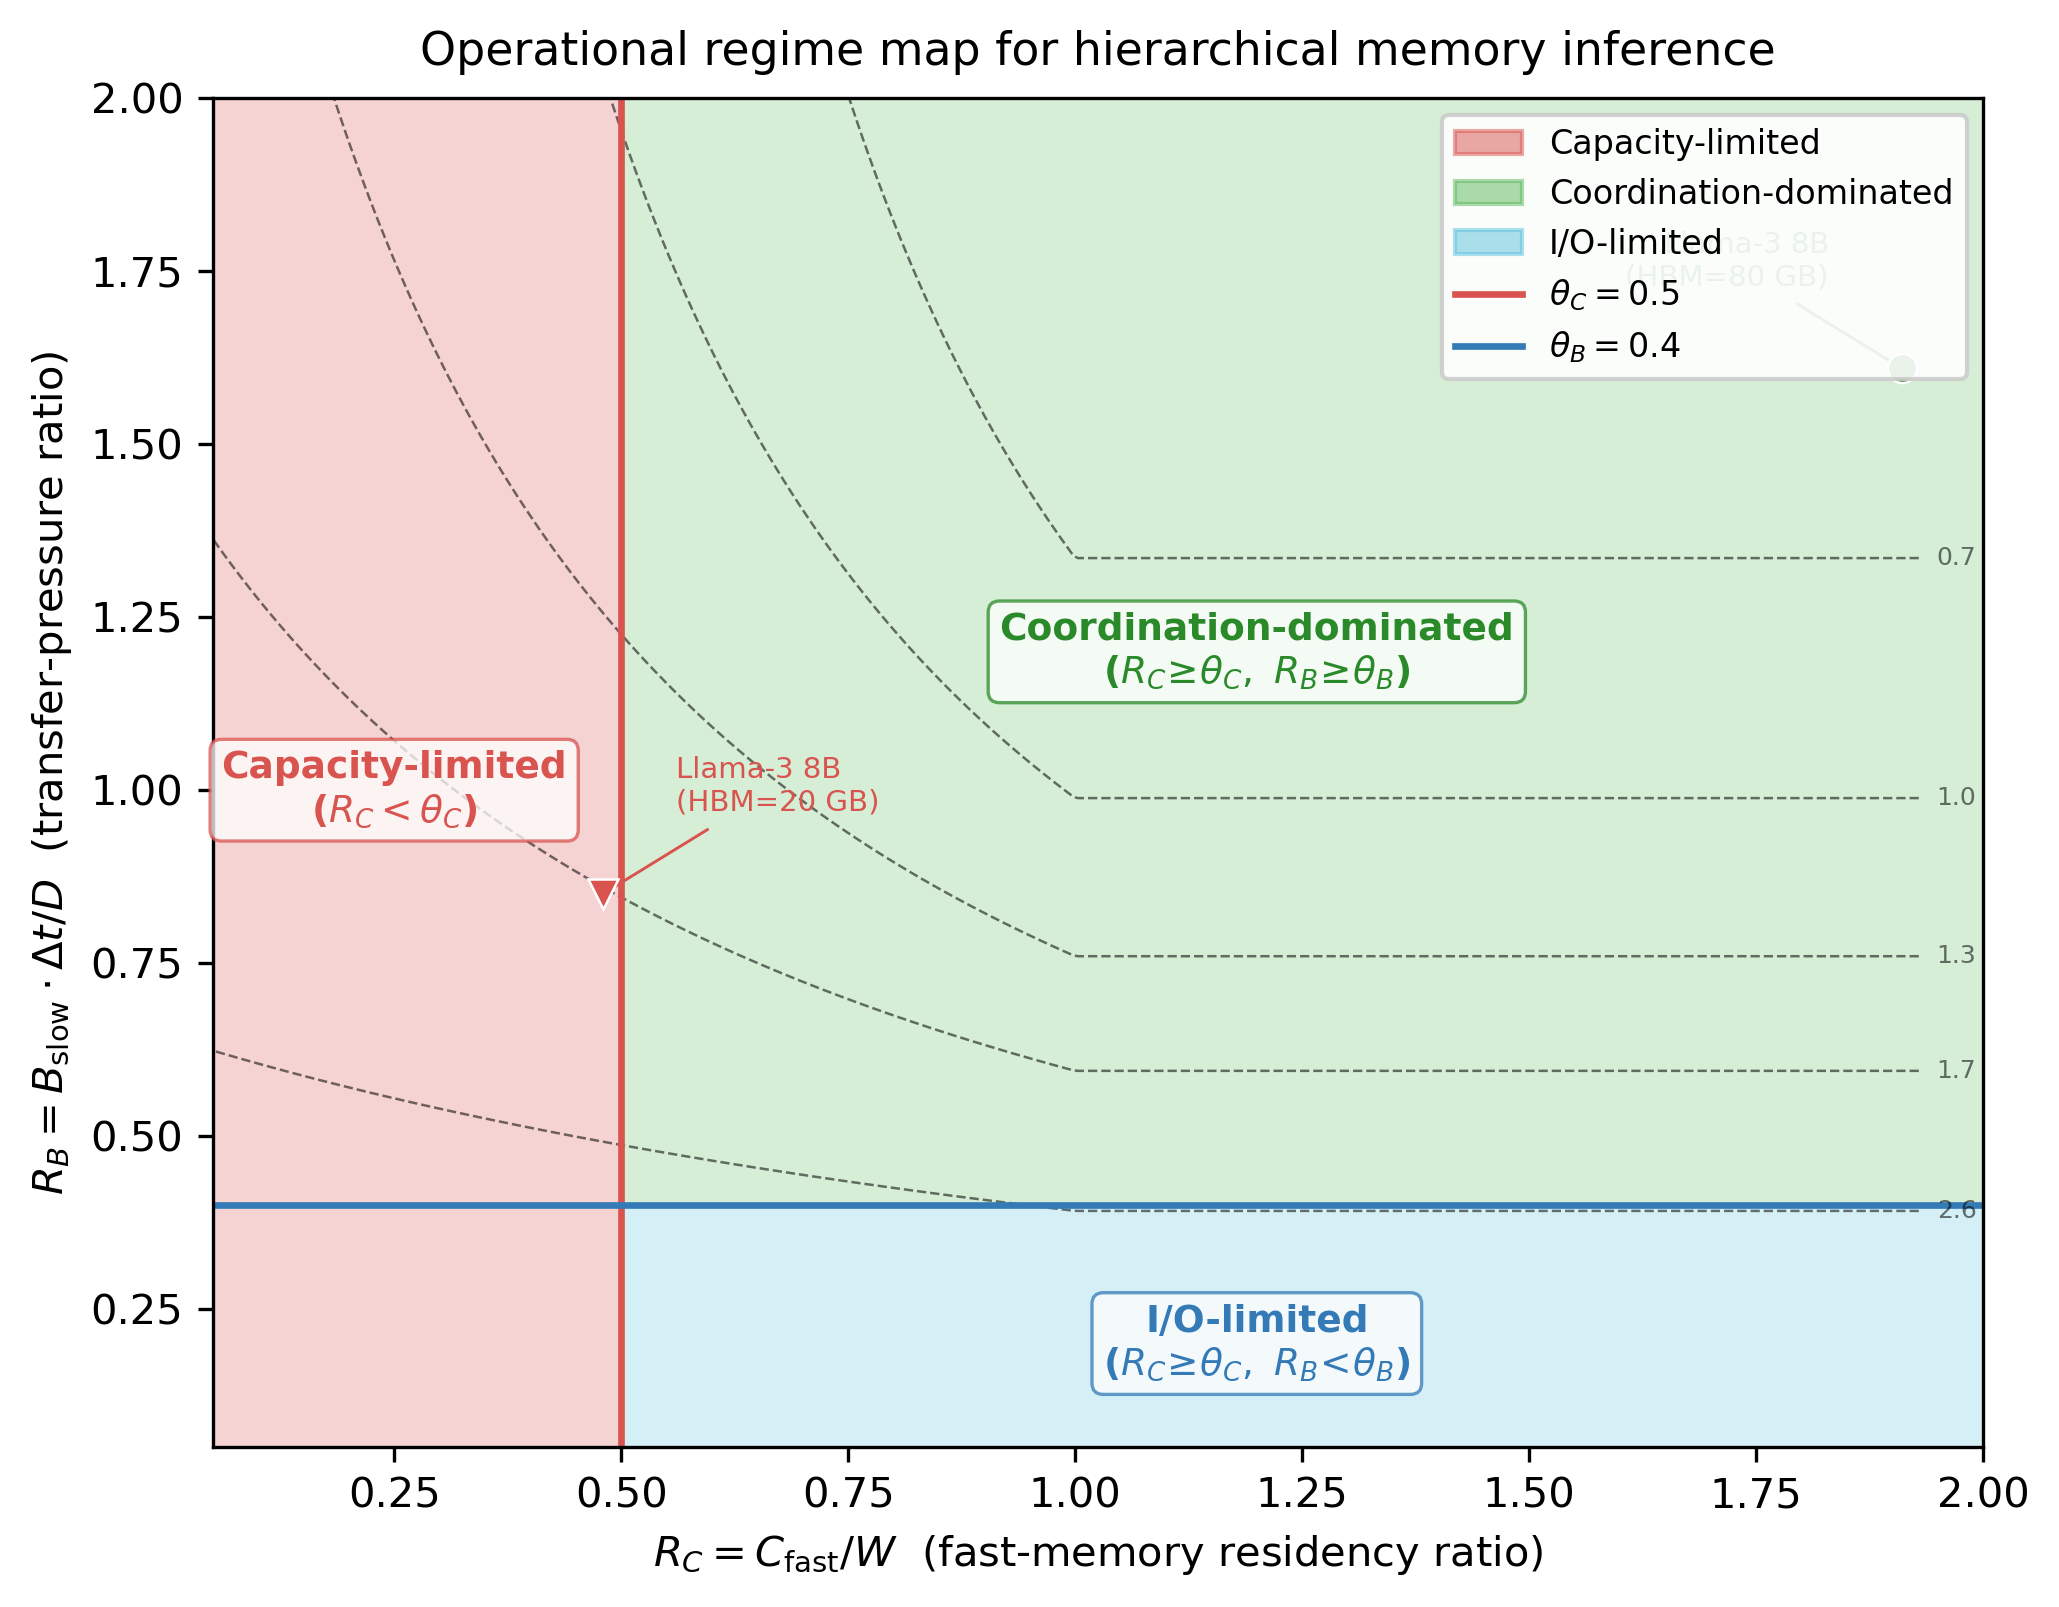
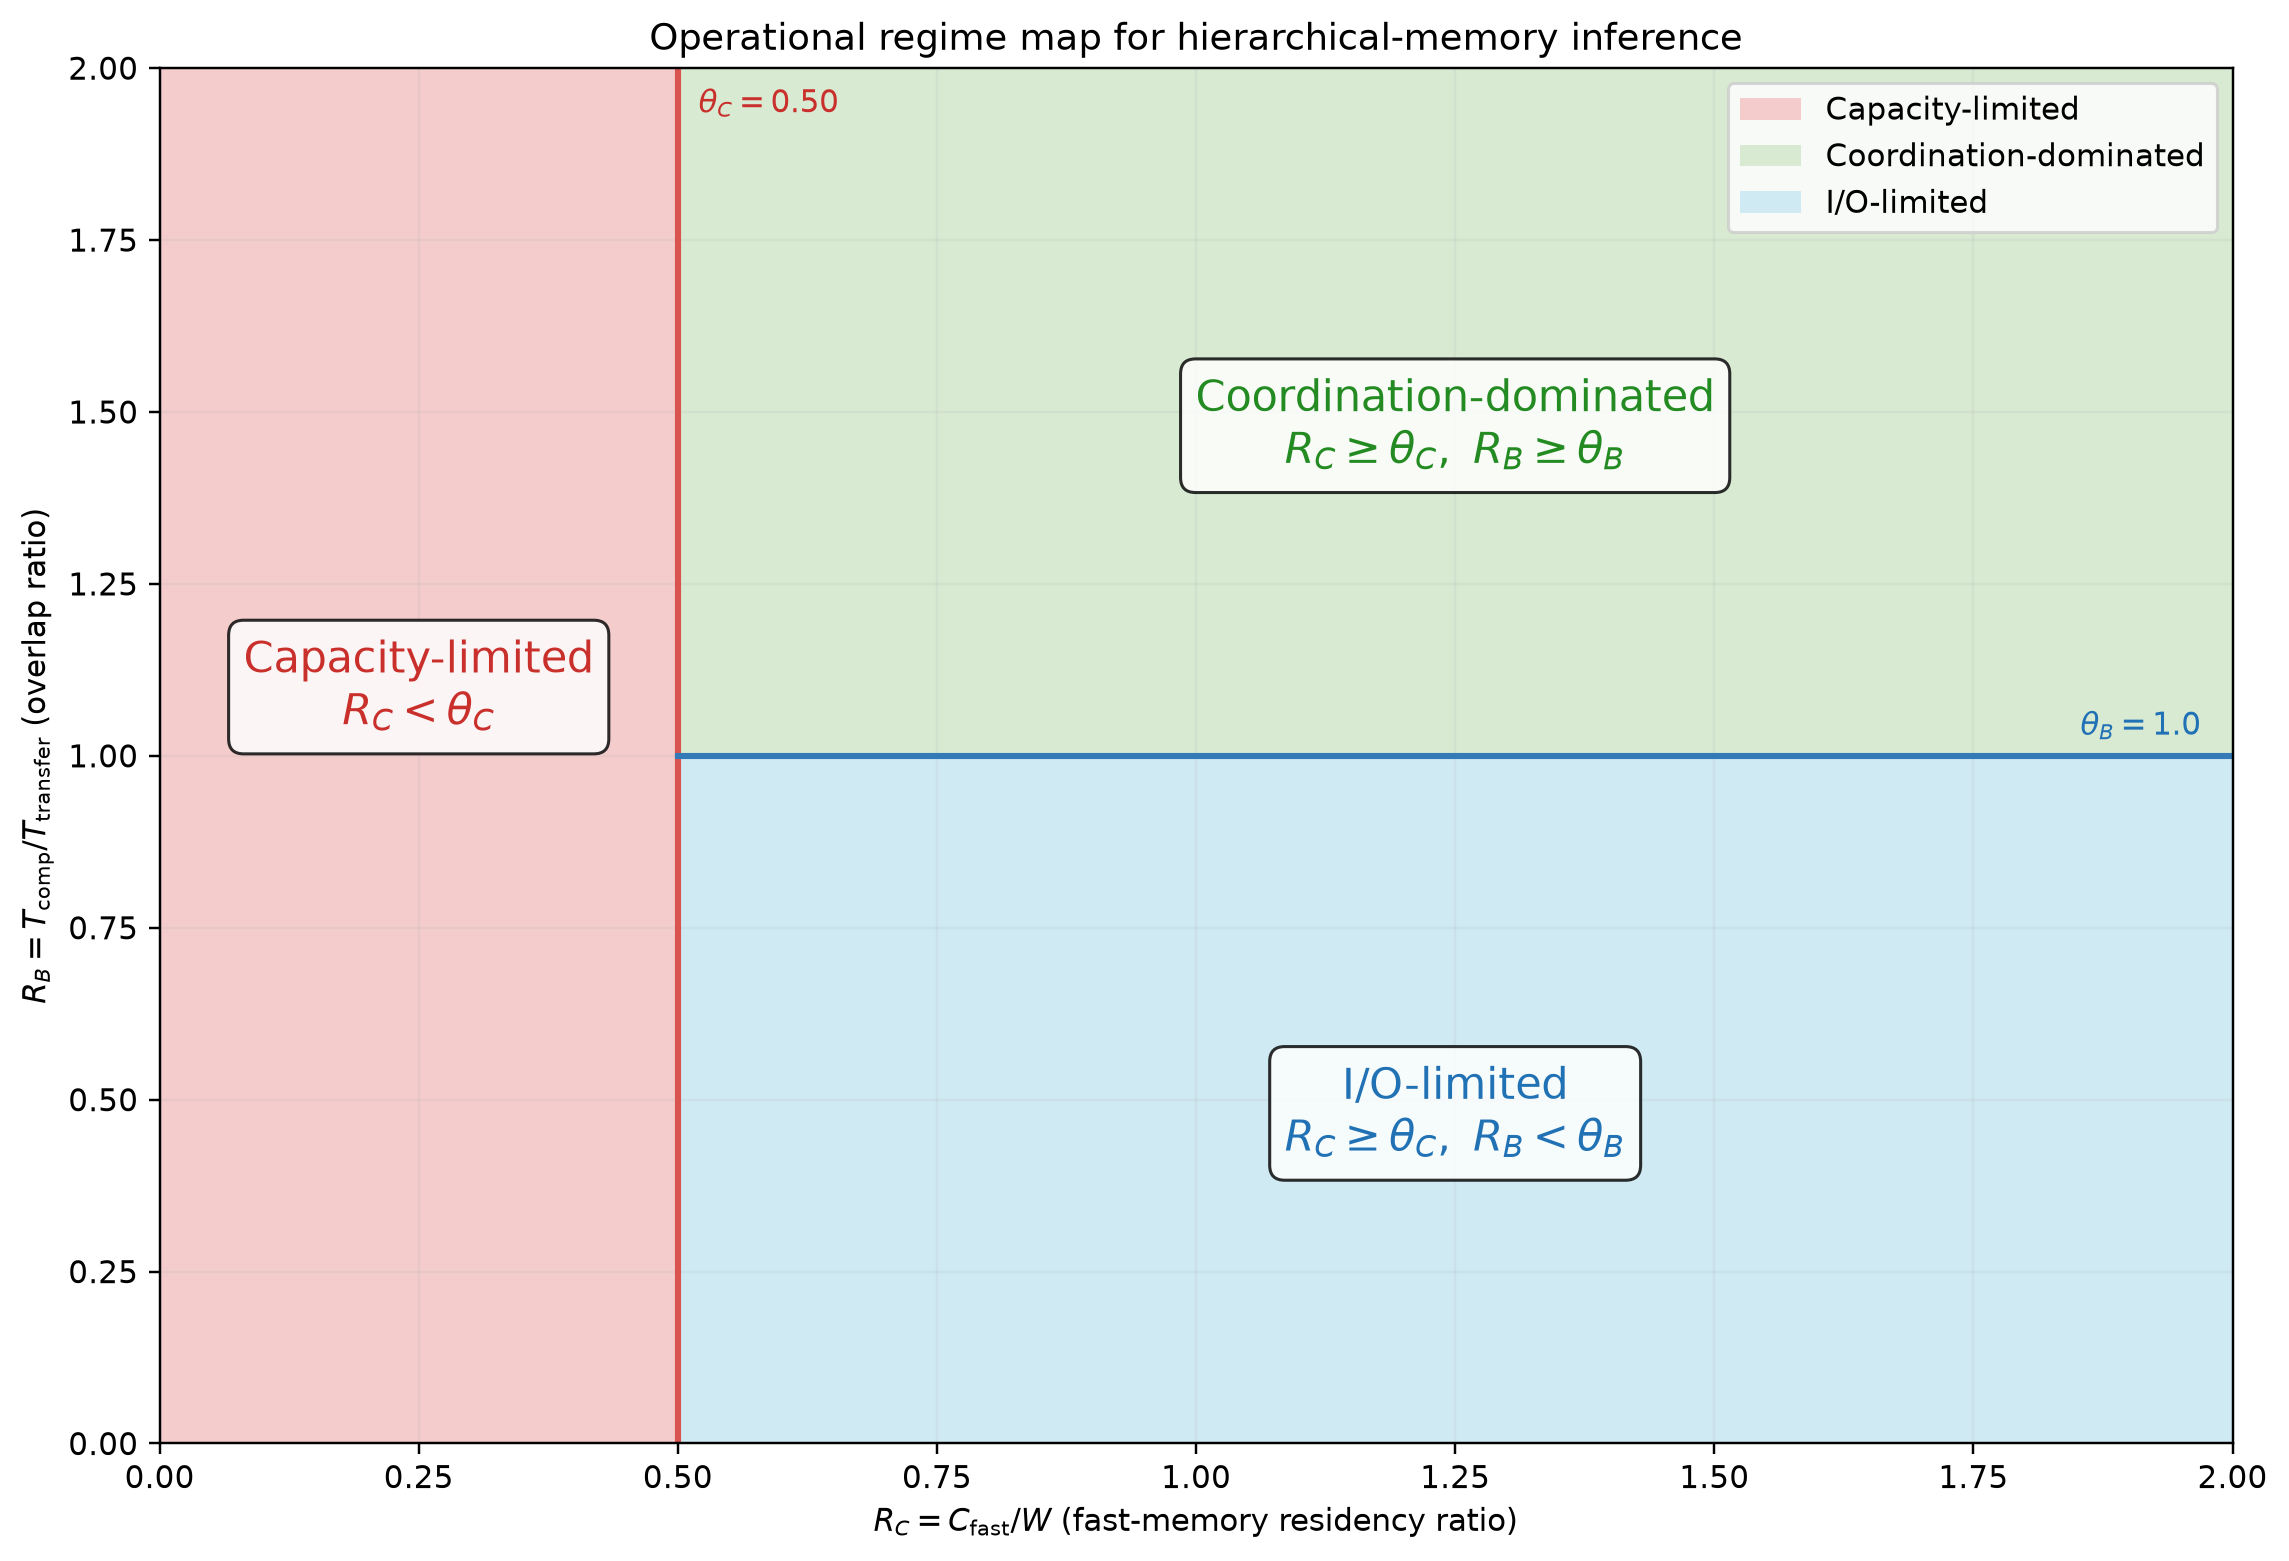
Add analytical regime-map generator, update Figure 2 script and README
### Motivation
- Provide a reproducible, CPU-only way to regenerate the analytical regime-map schematic used in the manuscript directly from `orion.config` so the asset is traceable and editable.
- Clarify the `R_B` axis label in the Figure 2 plotting script to match the analytical definition used for the sweep panel.

### Description
- Add `code/experiments/reproduce_regime_map.py`, a small matplotlib-based script that reads `THETA_B` and `THETA_C` from `orion.config` and writes `paper/figures/orion_regime_map.png` (default) or a user-specified output via `--output`.
- Add the generated asset `paper/figures/orion_regime_map.png` to the repository so the manuscript has an included schematic version of the regime map.
- Update `code/README.md` to mention the new script and show how to regenerate the analytical regime-map asset from `orion.config`.
- Fix the axis label in `code/experiments/reproduce_figure2.py` panel (c) from `R_B = B_slow·Δt / D` to `R_B = T_comp / T_transfer` to reflect the intended overlap-ratio definition.

### Testing
- Ran the new generator with `python experiments/reproduce_regime_map.py --output results/orion_regime_map.png` to smoke-test plotting and file output; the script completed and produced a PNG file successfully.
- Executed `python experiments/reproduce_figure2.py --save-pdf figure2_reproduced.pdf` to verify the modified axis label renders and the figure pipeline runs; the script completed and produced the PDF successfully.

diff --git a/code/experiments/reproduce_regime_map.py b/code/experiments/reproduce_regime_map.py
@@ -1,0 +1,75 @@
+#!/usr/bin/env python3
+"""Generate the analytical ORION regime map used by the manuscript.
+
+The plot is a schematic of the definitions in ``orion.config``; it does not
+contain, or imply, empirical accelerator measurements.
+"""
+from __future__ import annotations
+
+import argparse
+import sys
+from pathlib import Path
+
+sys.path.insert(0, str(Path(__file__).resolve().parent.parent))
+
+from orion.config import THETA_B, THETA_C
+
+
+def plot(output: Path) -> None:
+    import matplotlib
+
+    matplotlib.use("Agg")
+    import matplotlib.pyplot as plt
+    from matplotlib.patches import Patch
+
+    fig, ax = plt.subplots(figsize=(10.5, 7.2))
+    x_max, y_max = 2.0, 2.0
+    colours = {"capacity": "#f4cccc", "coordination": "#d9ead3", "io": "#cfeaf3"}
+
+    # Capacity is the first decision in the classifier. The I/O boundary is
+    # therefore displayed only on the R_C >= theta_C half-plane.
+    ax.axvspan(0, THETA_C, color=colours["capacity"], zorder=0)
+    ax.fill_between([THETA_C, x_max], 0, THETA_B, color=colours["io"], zorder=0)
+    ax.fill_between([THETA_C, x_max], THETA_B, y_max,
+                    color=colours["coordination"], zorder=0)
+    ax.axvline(THETA_C, color="#d9534f", linewidth=2)
+    ax.plot([THETA_C, x_max], [THETA_B, THETA_B], color="#337ab7", linewidth=2)
+
+    box = dict(boxstyle="round,pad=0.35", facecolor="white", alpha=0.82)
+    ax.text(THETA_C / 2, 1.1, "Capacity-limited\n$R_C < \\theta_C$",
+            ha="center", va="center", fontsize=14, color="#c9302c", bbox=box)
+    ax.text(1.25, 1.48,
+            "Coordination-dominated\n$R_C \\geq \\theta_C,\\ R_B \\geq \\theta_B$",
+            ha="center", va="center", fontsize=14, color="#238b22", bbox=box)
+    ax.text(1.25, 0.48, "I/O-limited\n$R_C \\geq \\theta_C,\\ R_B < \\theta_B$",
+            ha="center", va="center", fontsize=14, color="#2171b5", bbox=box)
+
+    ax.set(xlim=(0, x_max), ylim=(0, y_max),
+           xlabel=r"$R_C=C_{\mathrm{fast}}/W$ (fast-memory residency ratio)",
+           ylabel=r"$R_B=T_{\mathrm{comp}}/T_{\mathrm{transfer}}$ (overlap ratio)",
+           title="Operational regime map for hierarchical-memory inference")
+    ax.legend(handles=[
+        Patch(facecolor=colours["capacity"], label="Capacity-limited"),
+        Patch(facecolor=colours["coordination"], label="Coordination-dominated"),
+        Patch(facecolor=colours["io"], label="I/O-limited"),
+    ], loc="upper right")
+    ax.text(THETA_C + 0.02, 1.97, rf"$\theta_C={THETA_C:.2f}$", color="#c9302c", va="top")
+    ax.text(1.97, THETA_B + 0.03, rf"$\theta_B={THETA_B:.1f}$", color="#2171b5", ha="right")
+    ax.grid(alpha=0.15)
+    fig.tight_layout()
+    output.parent.mkdir(parents=True, exist_ok=True)
+    fig.savefig(output, dpi=220, bbox_inches="tight")
+
+
+def main() -> None:
+    parser = argparse.ArgumentParser()
+    parser.add_argument("--output", type=Path,
+                        default=Path(__file__).resolve().parents[2] /
+                        "paper/figures/orion_regime_map.png")
+    args = parser.parse_args()
+    plot(args.output)
+    print(f"wrote {args.output}")
+
+
+if __name__ == "__main__":
+    main()

diff --git a/paper/section/025_results_ncs.tex b/paper/section/025_results_ncs.tex
@@ -41,12 +41,8 @@ Dashed lines mark the regime boundaries at $R_C = \theta_C = 0.50$
 boundary). Shaded zones indicate the capacity- and I/O-limited regions; the
 coordination-dominated region is the sole regime in which orchestration can
 meaningfully reduce end-to-end latency.
-The two operating-point examples (filled markers) correspond to the
-Llama-3\,8B configurations quantified in the Introduction.
-\emph{Note (revision): this figure asset still renders the superseded
-$\theta_B = 0.40$ axis and must be regenerated from the measurement campaign
-against the corrected definitions; see
-\texttt{submission/code\_paper\_reconciliation.md}.}}
+This analytical schematic is generated directly from the threshold constants
+used by the released classifier and contains no empirical data.}
 \label{fig:regime_map}
 \end{figure}
 
@@ -155,11 +151,12 @@ constant.
 %% REVISION NOTE (code/paper reconciliation, 2026-08): the definitions above
 %% were realigned to code/orion/{ratios,config}.py (R_B = T_comp/T_transfer,
 %% theta_B = 1.0 derived, theta_C = 0.50 convention). The empirical magnitudes,
-%% per-platform shifts, operating-point regime labels, and Figures 1-2 below
+%% per-platform shifts, operating-point regime labels, and empirical panels below
 %% were produced under the SUPERSEDED definition (R_B = B_slow*dt/D, theta_B
 %% = 0.40) and MUST be recomputed from the real-hardware measurement campaign
 %% against the corrected definitions before submission. They are retained here
-%% only as placeholders; see submission/code_paper_reconciliation.md.
+%% only as placeholders; see submission/code_paper_reconciliation.md. The
+%% analytical regime map above has been regenerated from the corrected constants.
 %% Under theta_B = 1.0, operating points cited below as coordination-dominated
 %% at R_B < 1 (e.g. R_B = 0.75, 0.55) require re-derivation.
 %% ------------------------------------------------------------------

diff --git a/paper/section/010_introduction.tex b/paper/section/010_introduction.tex
@@ -53,7 +53,8 @@ ratios change, determining \emph{which} intervention is effective at any
 operating point.
 Multi-tier inference systems exhibit three operational regimes governed by the
 fast-memory residency ratio $R_C = C_{\mathrm{fast}}/W$ and the
-transfer-pressure ratio $R_B = B_{\mathrm{slow}} \cdot \Delta t / D$.
+overlap ratio $R_B = B_{\mathrm{slow}}T_{\mathrm{comp}}/D
+= T_{\mathrm{comp}}/T_{\mathrm{transfer}}$.
 Transitions between regimes are abrupt: modest changes in model size, batch
 size, or bandwidth shift the dominant latency contributor discontinuously.
 Regime-agnostic strategies effective in one regime fail predictably outside
@@ -91,7 +92,7 @@ batch\,=\,8 on a server with 80\,GB HBM and 16.1\,GB/s PCIe bandwidth:
 $W = 41.8$\,GB gives $R_C = 80/41.8 = 1.91$ (fully capacity-compliant,
 $R_C \gg \theta_C$).
 With nearly all weights resident in HBM, compulsory cross-tier transfer is
-small ($D \approx 1.2$\,GB per step); at $\Delta t \approx 120$\,ms,
+small ($D \approx 1.2$\,GB per step); at $T_{\mathrm{comp}} \approx 120$\,ms,
 $R_B = 16.1 \times 0.12 / 1.2 = 1.61$ (well inside the coordination-dominated
 regime).
 By contrast, constraining HBM to 20\,GB forces $R_C = 0.48$ and

diff --git a/code/experiments/reproduce_figure2.py b/code/experiments/reproduce_figure2.py
@@ -182,7 +182,7 @@ def plot_figure(save_pdf: str = "") -> None:
             t_list.append(statistics.mean(r.t_total for r in valid) if valid else 0)
         ax.plot(RB_GRID, t_list, "o-", label=method, color=colors_m[method])
     ax.axvline(THETA_B, color="red", linestyle="--", label=f"θ_B={THETA_B}")
-    ax.set_xlabel("R_B = B_slow·Δt / D"); ax.set_ylabel("T_total [s]")
+    ax.set_xlabel("R_B = T_comp / T_transfer"); ax.set_ylabel("T_total [s]")
     ax.set_title("(c) I/O-limited → Coord-dominated (ranking inversion)")
     ax.legend()
 

diff --git a/paper/submission/code_paper_reconciliation.md b/paper/submission/code_paper_reconciliation.md
@@ -168,11 +168,13 @@ Per the decision to align the manuscript to the corrected code, the following
 **Not changed (still pending real measurement — not fabricated):** every
 empirical magnitude (`S = 4.12 ± 0.31`, 41.2%, 8–14%, 78–84%, per-platform
 values, the specific `R_B = 0.75/0.55/0.18/…` operating points, Table 2
-inversion magnitudes, 93.4% classifier accuracy) and **Figures 1–2**. These
+inversion magnitudes, 93.4% classifier accuracy) and the **empirical panels of
+Figure 2**. These
 were produced under the superseded definition and must be recomputed from the
-measurement campaign. A visible revision note flags this at the boundary
-subsection and in the Figure 1 caption; Figure 1 still renders the old
-`θ_B = 0.40` axis.
+measurement campaign. The analytical regime-map asset has now been regenerated
+from the released `THETA_C=0.50` and `THETA_B=1.0` constants; it contains no
+empirical measurements and is reproducible with
+`experiments/reproduce_regime_map.py`.
 
 ## 4. Note for the submission decision
 

diff --git a/code/README.md b/code/README.md
@@ -37,6 +37,7 @@ code/
 │   ├── reproduce_table2.py     #   Table 2: regime-dependent strategy inversion
 │   ├── reproduce_table3.py     #   Table 3: workload generality (BLIP2/RAG/YOLOv8)
 │   ├── reproduce_figure2.py    #   Figure 2: regime map + latency decomposition
+│   ├── reproduce_regime_map.py #   analytical regime-map asset (no empirical data)
 │   └── reproduce_classifier_ablation.py  # Table D.1: Orion_HW vs Orion_Full
 ├── utils/
 │   ├── stats.py                #   Bootstrap CI, Wilcoxon test, SweepStats
@@ -122,6 +123,13 @@ python experiments/reproduce_table3.py
 ```
 
 ### Figure 2 — Regime map and latency decomposition
+
+Regenerate the analytical regime-map asset used in the manuscript directly
+from `orion.config` (this schematic contains no measured values):
+
+```bash
+python experiments/reproduce_regime_map.py
+```
 
 ```bash
 # Save as PDF (requires matplotlib):
